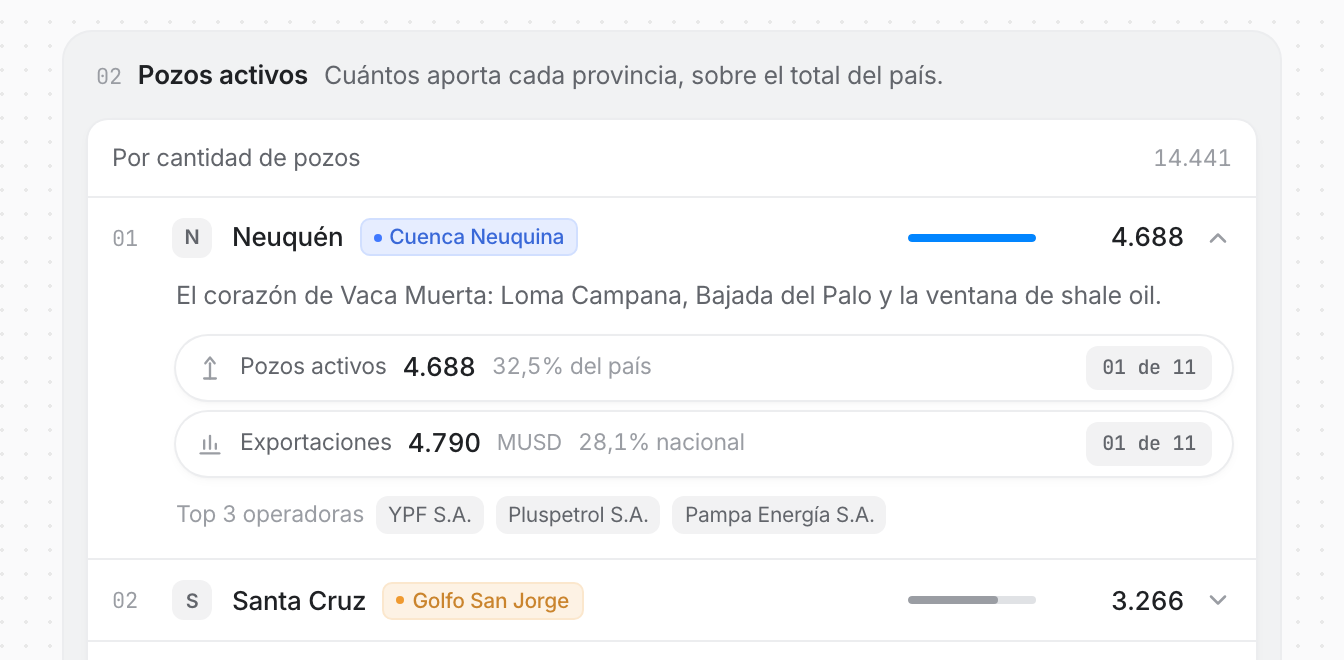
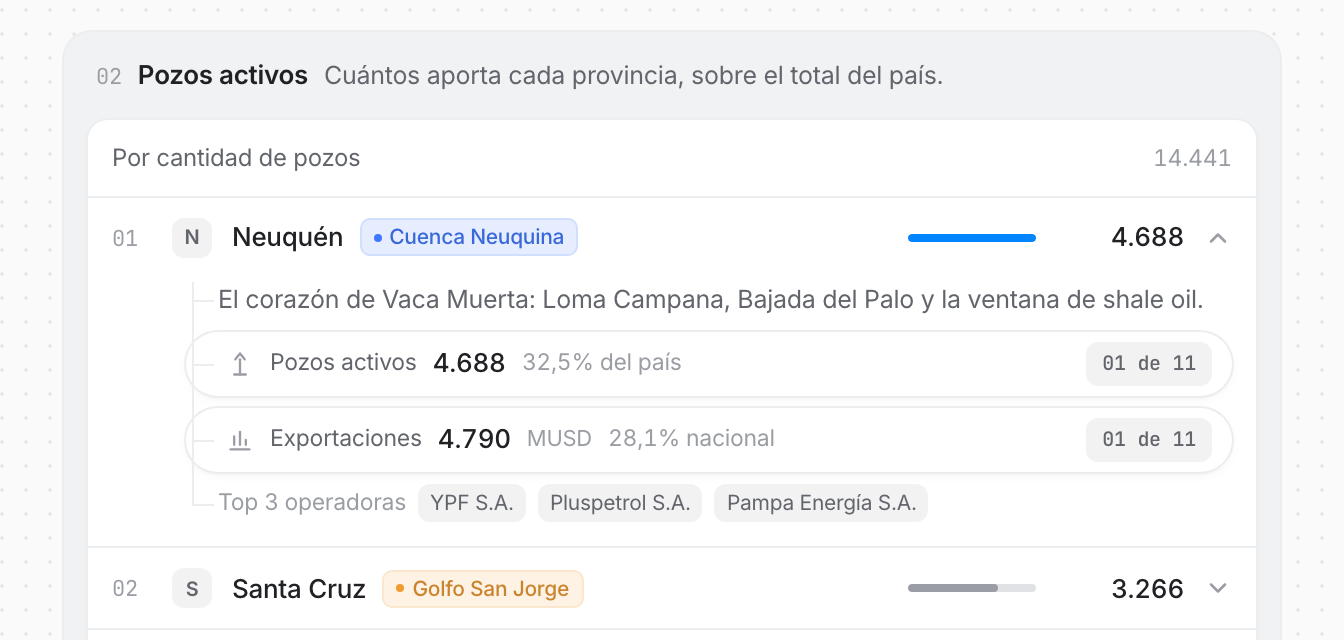
v2(provincias): riel de desglose y contenido alineado al centro de la pastilla
El desplegable se leía como cuatro líneas sueltas debajo de la fila. Ahora
cuelgan de un riel vertical que arranca bajo el centro de la pastilla de la
provincia (x=52: 12 de padding + 20 del rango + 10 de gap + 10 de media
pastilla), con un codo de 11px por línea.

El riel vertical es el MEDIDO de la referencia —span absoluto de 1px sobre
--line, contenedor con ml-[5px] pl-4—. El codo NO está en la referencia: lo
agregué a pedido. El último segmento corta a la mitad para terminar en su
propio codo en vez de seguir hasta el borde, y cada segmento sube 6px —el gap
de la lista— para que la línea no quede punteada.

Alto del desplegable: 183px → 135px.

diff --git a/apps/ui-prototype/src/app/v2/provincias/FilaProvincia.tsx b/apps/ui-prototype/src/app/v2/provincias/FilaProvincia.tsx
@@ -114,30 +114,33 @@ export function FilaProvincia({
         }}
       >
         <div style={{ overflow: 'hidden' }}>
-          <div style={{ padding: '0 12px 12px 44px' }}>
+          {/* El riel arranca bajo el centro de la pastilla de la fila: 12 de
+              padding + 20 del rango + 10 de gap + 10 de media pastilla = 52.
+              Menos los 3 del riel, el contenedor va a 49. */}
+          <div
+            className="s-rama flex flex-col gap-1.5"
+            style={{ padding: '2px 12px 12px 49px' }}
+          >
             <p className="s-desc m-0">{p.blurb}</p>
 
-            {/* Dos cápsulas —la fila-píldora de "Task Rows"— en vez de tres
-                cards: mismo dato en la mitad del alto, y cada una cierra con
-                el puesto que ocupa la provincia en ese ranking, que es
-                información que antes no estaba. */}
-            <div className="mt-2.5 flex flex-col gap-1.5">
-              <Capsula
-                icono="pozo"
-                rotulo="Pozos activos"
-                valor={formatInteger(p.wells)}
-                nota={`${formatDecimal(pctPozos, 1)}% del país`}
-                puesto={`${String(puestoPozos).padStart(2, '0')} de ${total}`}
-              />
-              <Capsula
-                icono="expo"
-                rotulo="Exportaciones"
-                valor={formatInteger(p.exportsMUSD)}
-                unidad="MUSD"
-                nota={`${formatDecimal(p.expSharePct, 1)}% nacional`}
-                puesto={`${String(puestoExpo).padStart(2, '0')} de ${total}`}
-              />
-            </div>
+            {/* Las cápsulas van como hijas DIRECTAS del riel, no envueltas en
+                un contenedor: si no, el codo se engancharía al contenedor y
+                habría un solo codo para las dos. */}
+            <Capsula
+              icono="pozo"
+              rotulo="Pozos activos"
+              valor={formatInteger(p.wells)}
+              nota={`${formatDecimal(pctPozos, 1)}% del país`}
+              puesto={`${String(puestoPozos).padStart(2, '0')} de ${total}`}
+            />
+            <Capsula
+              icono="expo"
+              rotulo="Exportaciones"
+              valor={formatInteger(p.exportsMUSD)}
+              unidad="MUSD"
+              nota={`${formatDecimal(p.expSharePct, 1)}% nacional`}
+              puesto={`${String(puestoExpo).padStart(2, '0')} de ${total}`}
+            />
 
             {/* "Top 3" y no "Operan": el fixture marca estas operadoras como
                 destacadas e ilustrativas, no como la lista completa. Decir
@@ -156,7 +159,7 @@ export function FilaProvincia({
                 una línea. La pastilla sirve en una fila de tabla, donde el
                 ojo baja por una columna de iniciales; acá no hay columna. */}
             {operadoras.length > 0 && (
-              <div className="mt-2.5 flex flex-wrap items-center gap-1.5">
+              <div className="flex flex-wrap items-center gap-1.5">
                 <span className="s-micro shrink-0" style={{ color: 'var(--ink-3)' }}>
                   Top 3 operadoras
                 </span>

diff --git a/apps/ui-prototype/src/app/v2/sistema.css b/apps/ui-prototype/src/app/v2/sistema.css
@@ -489,3 +489,46 @@
   white-space: nowrap;
 }
 
+
+/* ── Riel de desglose ───────────────────────────────────────────────────
+   El riel de las trazas de "Thinking": medido en el sitio, es un span
+   absoluto de 1px en left:3px sobre --line, con el contenido corrido 16px.
+
+   Acá se le suma un codo por línea, que la referencia no tiene: pedido de
+   Mariano, y ayuda a leer qué cuelga de qué cuando las líneas son de altura
+   distinta —un párrafo, dos cápsulas y una fila de chips—.
+
+   El segmento vertical va en CADA hijo en vez de en el contenedor, y el
+   último se corta a la mitad. Es la forma de que el riel termine en el codo
+   de la última línea y no siga de largo hasta el borde: con un solo riel en
+   el contenedor habría que saber de antemano cuánto mide la última fila. */
+.s-rama > * {
+  position: relative;
+  padding-left: 16px;
+}
+/* El segmento sube 6px —el gap de la lista— para tapar el corte que quedaba
+   entre línea y línea: sin eso el riel se ve punteado. */
+.s-rama > *::before {
+  content: '';
+  position: absolute;
+  left: 3px;
+  top: -6px;
+  bottom: 0;
+  width: 1px;
+  background: var(--line);
+}
+.s-rama > *:first-child::before { top: 0; }
+.s-rama > *:last-child::before {
+  bottom: auto;
+  height: calc(50% + 6px);
+}
+.s-rama > *:first-child:last-child::before { height: 50%; }
+.s-rama > *::after {
+  content: '';
+  position: absolute;
+  left: 3px;
+  top: 50%;
+  width: 11px;
+  height: 1px;
+  background: var(--line);
+}
